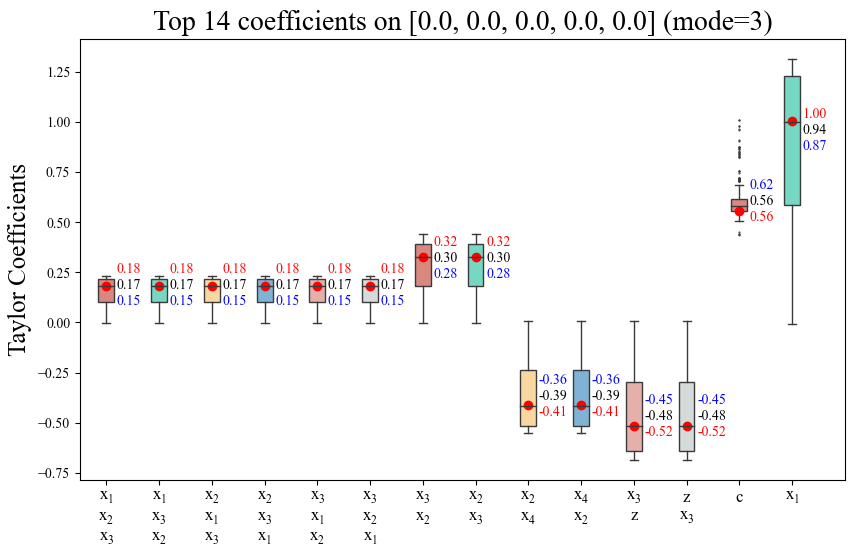
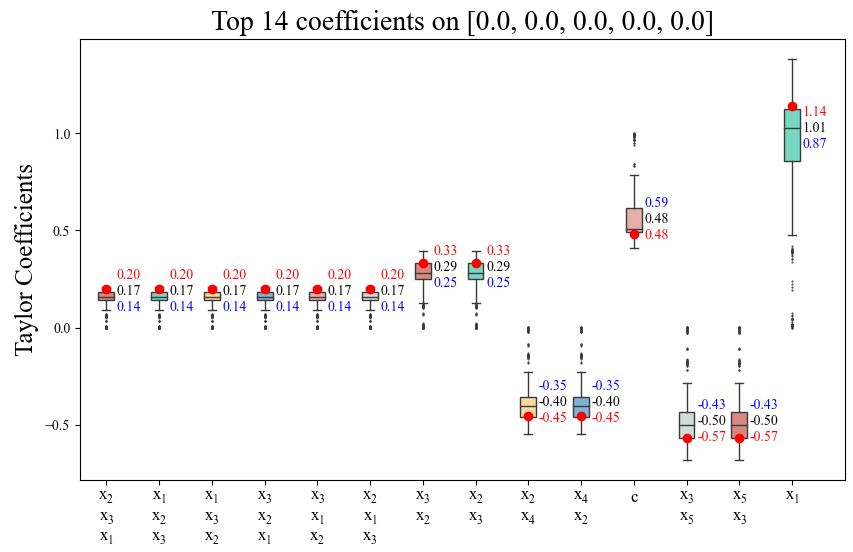
change

diff --git a/README.md b/README.md
@@ -79,7 +79,7 @@ python global.py -d demo/discovery/outputs/discovery_{time}/model/best.pt
 
 One can easily find the function expressed by the neural network from the top coefficients.
 
-#### (b) Represent $y=0.5+x_1+0.6x_2x_3-0.8x_2x_4+x_1x_2x_3-zx_3$ with implicit neural representation
+#### (b) Represent $y=0.5+x_1+0.6x_2x_3-0.8x_2x_4+x_1x_2x_3-x_3x_5$ with implicit neural representation
 
 ```
 python demo/discovery/code/train1.py
@@ -93,7 +93,7 @@ python global.py -d demo/discovery/outputs/discovery1_3_{time}/model/best.pt -p 
 
 <img src="docs/fig4.png" width="70%"/>
 
-The local Taylor coefficients on reference point are marked in red, the average values of coefficients obtained from multiple reference points are marked in blue, and the coefficients that combine local and global properties are marked in black. The final Taylor polynomial on reference point [0, 0, 0, 0, 0] is $y=0.56+0.94x_1+0.60x_2x_3-0.78x_2x_4+1.02x_1x_2x_3-0.96x_3$.
+The local Taylor coefficients on reference point are marked in red, the average values of coefficients obtained from multiple reference points are marked in blue, and the coefficients that combine local and global properties are marked in black. The final Taylor polynomial on reference point [0, 0, 0, 0, 0] is $y=0.48+1.01x_1+0.58x_2x_3-0.80x_2x_4+1.02x_1x_2x_3-1.00x_3x_5$.
 
 ### 3. Feature selection
 
